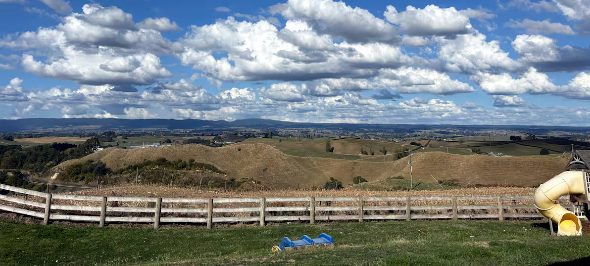
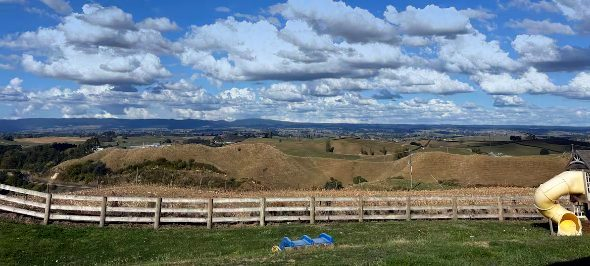
Fix mobile hero and brighten skies

diff --git a/index.html b/index.html
@@ -219,6 +219,13 @@
     .home.rev .home-img{order:0}
     .home-img{min-height:280px}
     nav ul{display:none}
+    /* Hero intro: give the panel more height on mobile and space the logo/tagline so they never overlap */
+    .hero-intro{aspect-ratio:5/4}
+    .hero-intro .ilogo{top:22%}
+    .hero-intro .ilogo .mark{width:56px;height:56px;margin-bottom:8px}
+    .hero-intro .ilogo .brand-word{font-size:1.1rem}
+    .hero-intro .ilogo .brand-word small{font-size:.56rem;margin-top:5px}
+    .hero-intro .itag{bottom:16px;font-size:12px;padding:0 18px}
   }
 
   /* Gallery */
@@ -231,6 +238,17 @@
   .ggrid figure:hover img{transform:scale(1.05)}
   .ggrid .wide{grid-column:span 2}
   .ggrid .wide img{aspect-ratio:8/3}
+  .ggrid img{cursor:zoom-in}
+  .home-photo{cursor:zoom-in}
+
+  /* Lightbox */
+  .lb{position:fixed;inset:0;z-index:200;background:rgba(20,18,15,.93);display:none;align-items:center;justify-content:center;cursor:zoom-out}
+  .lb.open{display:flex}
+  .lb img{max-width:92vw;max-height:88vh;object-fit:contain;border-radius:6px;transition:transform .25s ease;cursor:zoom-in}
+  .lb img.zoomed{cursor:crosshair;transition:none}
+  .lb-close{position:fixed;top:16px;right:20px;width:46px;height:46px;border-radius:50%;border:0;background:rgba(255,255,255,.14);color:#fff;font-size:1.7rem;line-height:1;cursor:pointer;z-index:210}
+  .lb-close:hover{background:rgba(255,255,255,.28)}
+  .lb-hint{position:fixed;bottom:16px;left:50%;transform:translateX(-50%);color:rgba(255,255,255,.72);font-size:.78rem;font-family:'Montserrat',sans-serif;letter-spacing:.02em;pointer-events:none}
   @media(max-width:860px){.ggrid{grid-template-columns:repeat(2,1fr)}.ggrid .wide{grid-column:span 2}}
 
 </style>
@@ -374,6 +392,8 @@
       <figure class="wide"><img src="img/pano.jpg" alt="Panoramic countryside views across the farm"></figure>
       <figure><img src="img/cinema.jpg" alt="Cinema lounge with projector screen and sofas"></figure>
       <figure><img src="img/living2.jpg" alt="Open-plan living and kitchen area"></figure>
+      <figure class="wide"><img src="img/hpatio.jpg" alt="Outdoor dining and lounge on the patio with rural views"></figure>
+      <figure class="wide"><img src="img/hlounge.jpg" alt="Outdoor corner lounge suite on the patio"></figure>
       <figure><img src="img/dining.jpg" alt="Dining area"></figure>
       <figure><img src="img/bed1.jpg" alt="One of six bedrooms"></figure>
       <figure><img src="img/bed3.jpg" alt="A queen bedroom"></figure>
@@ -517,6 +537,12 @@
   </div>
 </footer>
 
+<div class="lb" id="lightbox" aria-hidden="true">
+  <button class="lb-close" aria-label="Close">&times;</button>
+  <img id="lb-img" src="" alt="">
+  <div class="lb-hint">Click the photo to zoom · Esc to close</div>
+</div>
+
 
 <script>
   // Pre-select the enquiry "Which home?" dropdown when a home's Enquire button is clicked
@@ -526,6 +552,29 @@
       for (var i=0;i<sel.options.length;i++){ if(sel.options[i].value===val) sel.selectedIndex=i; }
     });
   });
+</script>
+<script>
+  // Lightbox: click a photo to enlarge, click again to zoom in and pan, Esc/click to close
+  (function(){
+    var lb=document.getElementById('lightbox'); if(!lb) return;
+    var img=document.getElementById('lb-img'), zoomed=false;
+    function openLb(src,alt){ img.src=src; img.alt=alt||''; img.classList.remove('zoomed'); img.style.transform=''; zoomed=false; lb.classList.add('open'); document.body.style.overflow='hidden'; }
+    function closeLb(){ lb.classList.remove('open'); document.body.style.overflow=''; img.src=''; }
+    document.querySelectorAll('.ggrid img, .home-photo').forEach(function(el){
+      el.addEventListener('click', function(){ openLb(el.currentSrc||el.src, el.alt); });
+    });
+    function zoomAt(e){
+      var r=img.getBoundingClientRect();
+      var x=Math.max(0,Math.min(100,((e.clientX-r.left)/r.width)*100));
+      var y=Math.max(0,Math.min(100,((e.clientY-r.top)/r.height)*100));
+      img.style.transformOrigin=x+'% '+y+'%'; img.style.transform='scale(2.6)';
+    }
+    img.addEventListener('click', function(e){ e.stopPropagation(); zoomed=!zoomed; if(zoomed){ img.classList.add('zoomed'); zoomAt(e); } else { img.classList.remove('zoomed'); img.style.transform=''; } });
+    img.addEventListener('mousemove', function(e){ if(zoomed) zoomAt(e); });
+    lb.addEventListener('click', closeLb);
+    var cb=lb.querySelector('.lb-close'); if(cb) cb.addEventListener('click', function(e){ e.stopPropagation(); closeLb(); });
+    document.addEventListener('keydown', function(e){ if(e.key==='Escape') closeLb(); });
+  })();
 </script>
 </body>
 </html>